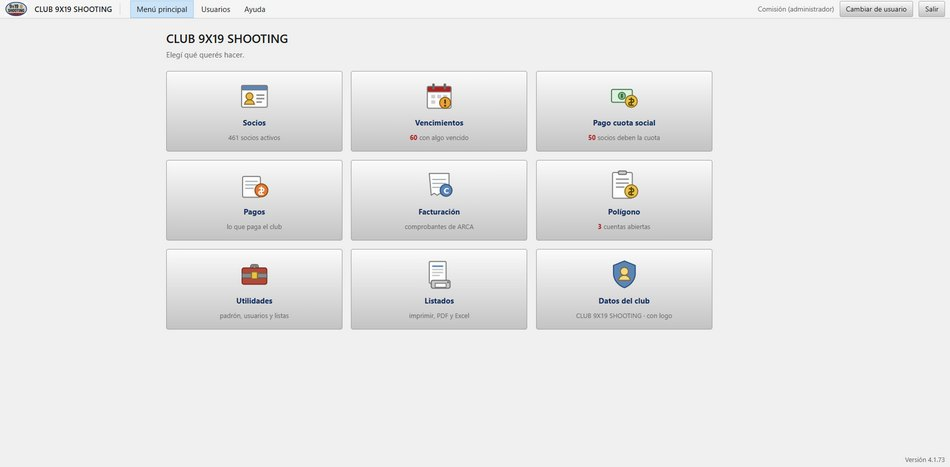
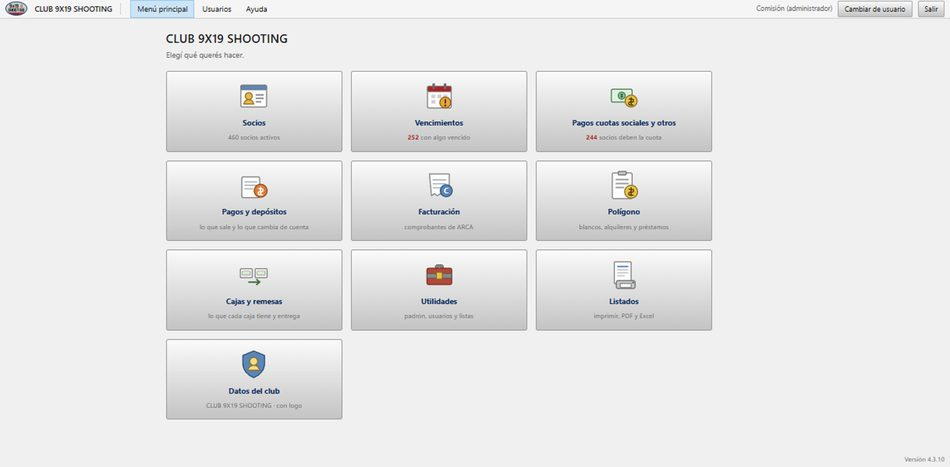
Club: la captura del menu, al dia con la 4.3.10
La que estaba era de la 4.1.33: nueve tarjetas y sin Cajas y remesas.
El alt hablaba de las cuentas abiertas del poligono, que esa pantalla
ya no muestra.

diff --git a/club/index.html b/club/index.html
@@ -33,7 +33,7 @@
 <meta property="og:type" content="website">
 <meta property="og:title" content="9x19 Club">
 <meta property="og:description" content="Socios, cuotas, polígono y caja del club de tiro, en las computadoras del club.">
-<meta property="og:image" content="https://9x19shooting.com.ar/assets/capturas-club/menu.jpg">
+<meta property="og:image" content="https://9x19shooting.com.ar/assets/capturas-club/menu.jpg?v=4.3.10">
 <meta property="og:url" content="https://9x19shooting.com.ar/club/">
 <meta property="og:locale" content="es_AR">
 </head>
@@ -219,7 +219,7 @@
 
     <div class="capturas">
       <figure>
-        <img src="../assets/capturas-club/menu.jpg" alt="Menú principal del programa, con los socios activos, los que deben la cuota y las cuentas abiertas del polígono" loading="lazy">
+        <img src="../assets/capturas-club/menu.jpg?v=4.3.10" alt="Menú principal del programa, con los socios activos, los que tienen algo vencido y los que deben la cuota" loading="lazy">
         <figcaption>El menú, con los números del día</figcaption>
       </figure>
       <figure>
